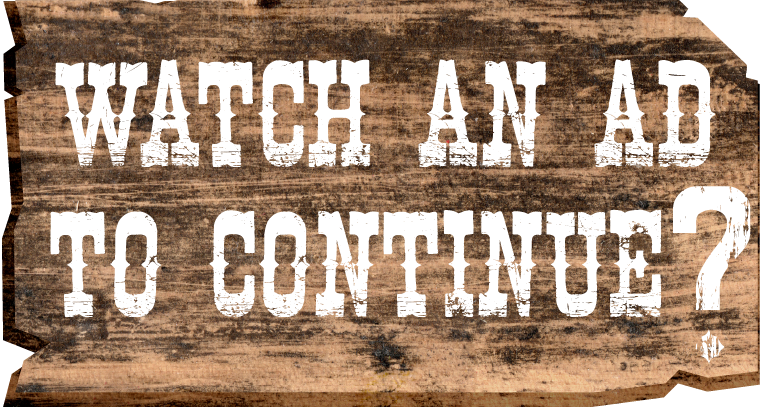
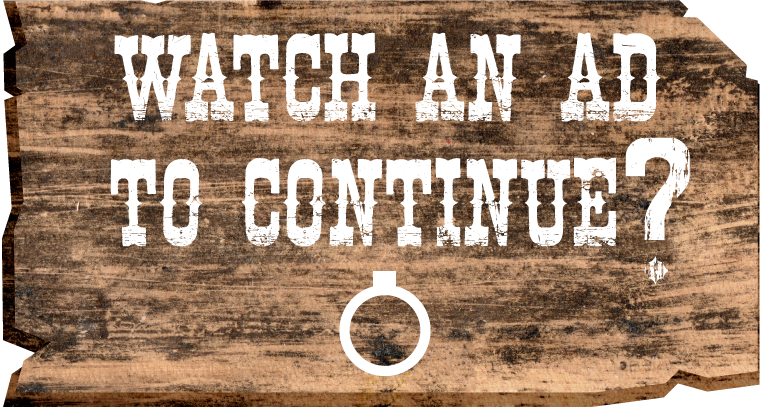
Ad panel now has a countdown

diff --git a/ImpossibleShotProt/Assets/Scripts/UI/AdCountDown.cs b/ImpossibleShotProt/Assets/Scripts/UI/AdCountDown.cs
@@ -1,0 +1,34 @@
+using UnityEngine;
+using UnityEngine.UI;
+
+[RequireComponent(typeof(Text))]
+public class AdCountDown : MonoBehaviour {
+
+	public int TimeToWait;
+	public GameObject CurrentPanel;
+	public GameObject NextPanel;
+	private float timer = 0;
+	private float timeLeft;
+	private Text text;
+
+	void Start(){
+		timeLeft = TimeToWait;
+		text = GetComponent<Text>();
+	}
+
+	void OnEnable(){
+		timeLeft = TimeToWait;
+	}
+	void Update () {
+		timer += Time.unscaledDeltaTime;
+		if(timer >= 1){ 
+			timer = 0;
+			timeLeft -= 1;
+			text.text = timeLeft.ToString();
+		}
+		if(timeLeft < 0){
+			NextPanel.SetActive(true);
+			CurrentPanel.SetActive(false);
+		}
+	}
+}
